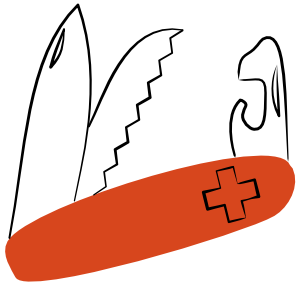
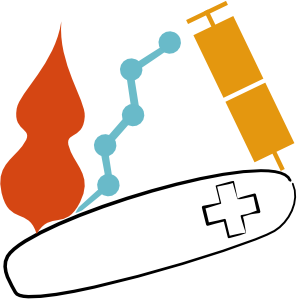
Utilities image update, text streamline
- Utilities section picture updated
- Text across sections streamlined

diff --git a/index.html b/index.html
@@ -740,13 +740,13 @@ header .header-name {
   <div class="about-content">
     <img src="./images/about_pic.png" alt="About pic" width="200" height="200" id="aboutpic" class="about-image">
     <div class="about-text">
-      <p>Welcome to my website! My name is David, and I'm a postdoctoral researcher at the Faculty of Psychology of the University of Barcelona.
-        Over the course of my academic career I formed part of three
-        different academic institutions in as many countries, and I <a
+      <p>My name is David, welcome to my website!
+        Over the course of my professional career I formed part of three
+        different institutions in as many countries, and I <a
           href="https://scholar.google.com/citations?user=aEOQbloAAAAJ&hl=en" target="_blank">co-authored a few scientific
           articles</a>.
-        While I hope to very soon upload a commented version of the different projects I've been part of, at the moment I mainly use this personal website 
-        to showcase <a href="#projects">a series of projects</a> I developed in my free time. Feel free to browse
+        I mainly use this personal website 
+        to showcase <a href="#projects">a series of projects</a> I developed. Feel free to browse
         around, and <a href="#contact">contact me</a> if you have any question or proposal.</p>
       <div class="icons-socials">
         <a href="https://github.com/aguilarlleyda" target="_blank">
@@ -810,31 +810,24 @@ header .header-name {
       <!-- Entry 1 -->
       <tr>
         <td class="resume-cell">2024 - present</td>
-        <td class="resume-cell">Postdoctoral researcher</td>
+        <td class="resume-cell">Scientific researcher</td>
         <td class="resume-cell">University of Barcelona</td>
         <td class="resume-cell">Barcelona, Catalonia</td>
       </tr>
       <!-- Entry 2 -->
       <tr>
         <td class="resume-cell">2020 - 2024</td>
-        <td class="resume-cell">Research scientist</td>
+        <td class="resume-cell">Scientific researcher</td>
         <td class="resume-cell">RIKEN Center for Brain Science</td>
-        <td class="resume-cell">Wako, Japan</td>
+        <td class="resume-cell">Tokyo, Japan</td>
       </tr>
       <!-- Entry 3 -->
       <tr>
         <td class="resume-cell">2018 - 2020</td>
-        <td class="resume-cell">Postdoctoral researcher</td>
+        <td class="resume-cell">Scientific researcher</td>
         <td class="resume-cell">French National Centre for Scientific Research</td>
         <td class="resume-cell">Paris, France</td>
-      </tr>
-      <!-- Entry 4 -->
-      <tr>
-        <td class="resume-cell">2011 - 2017</td>
-        <td class="resume-cell">Doctoral candidate</td>
-        <td class="resume-cell">University of Barcelona</td>
-        <td class="resume-cell">Barcelona, Catalonia</td>
-      </tr>
+.      </tr>
     </table>
 
     <!-- List format for narrow screens -->
@@ -842,21 +835,21 @@ header .header-name {
       <!-- Entry 1 -->
       <div class="experience-narrow-entry">
         <strong>Years:</strong> 2024 - present<br>
-        <strong>Role:</strong> Postdoctoral researcher<br>
+        <strong>Role:</strong> Scientific researcher<br>
         <strong>Institution:</strong> University of Barcelona<br>
         <strong>Location:</strong> Barcelona, Catalonia
       </div>      
       <!-- Entry 2 -->
       <div class="experience-narrow-entry">
         <strong>Years:</strong> 2020 - 2024<br>
-        <strong>Role:</strong> Research scientist<br>
-        <strong>Institution:</strong> RIKEN Center for Brain Science<br>
+        <strong>Role:</strong> Scientific researcher<br>
+        <strong>Institution:</strong> RIKEN<br>
         <strong>Location:</strong> Wako, Japan
       </div>
       <!-- Entry 3 -->
       <div class="experience-narrow-entry">
         <strong>Years:</strong> 2018 - 2020<br>
-        <strong>Role:</strong> Postdoctoral researcher<br>
+        <strong>Role:</strong> Scientific researcher<br>
         <strong>Institution:</strong> French National Centre for Scientific Research<br>
         <strong>Location:</strong> Paris, France
       </div>
@@ -878,7 +871,7 @@ header .header-name {
   <table class="skills-table" style="width: 80%; border-collapse: collapse; border-bottom: 1.5px solid black; margin: 0 auto;">
     <!-- Skill Category 1 -->
     <tr>
-      <td class="resume-cell" style="text-align: left;"><strong style="padding-right: 20px;">General skills:</strong> Machine learning, data analysis, statistics, data visualization, cognitive science</td>
+      <td class="resume-cell" style="text-align: left;"><strong style="padding-right: 20px;">General skills:</strong> Machine learning, data analysis, statistics, data visualization, behavioral and decision science</td>
     </tr>
     <!-- Skill Category 2 -->
     <tr>
